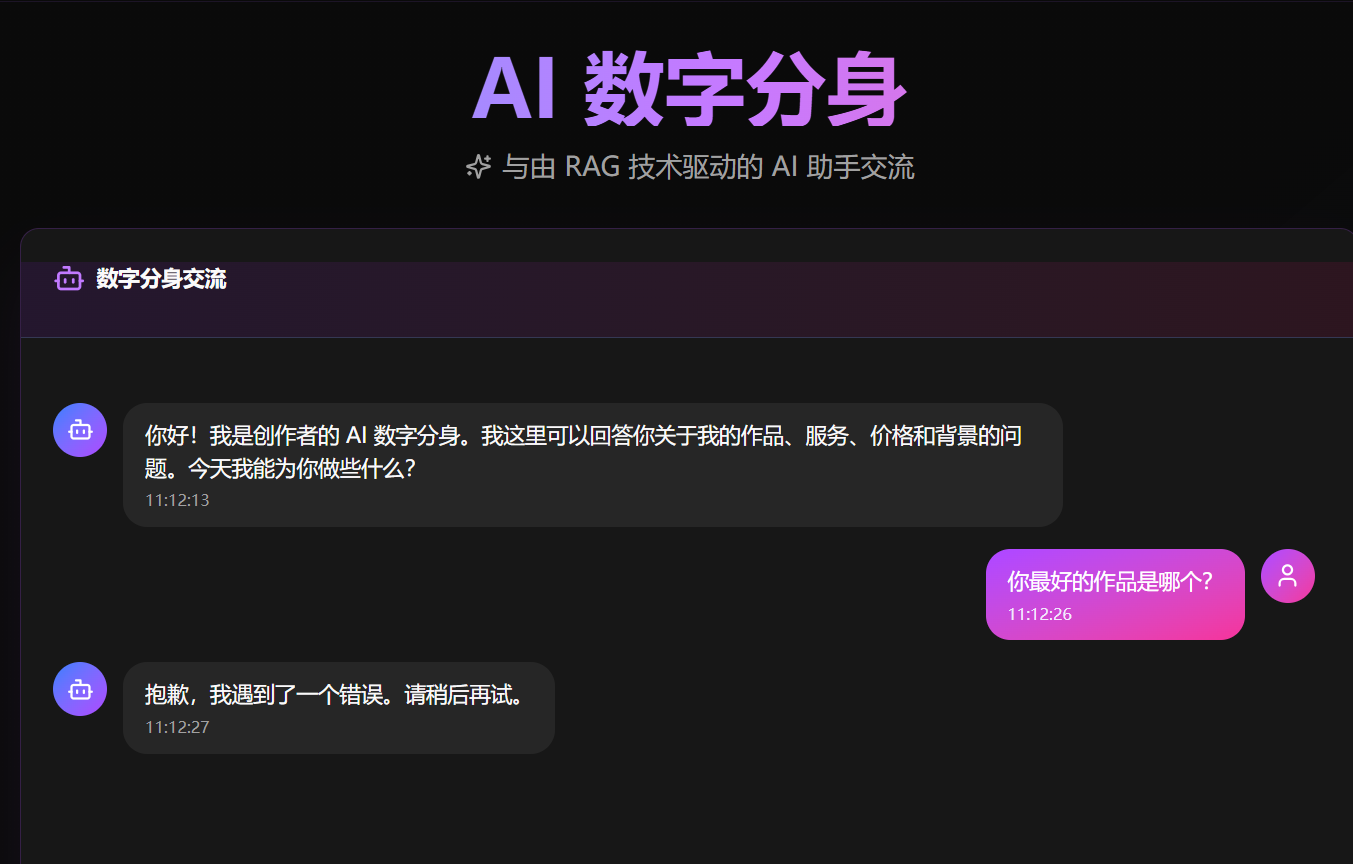
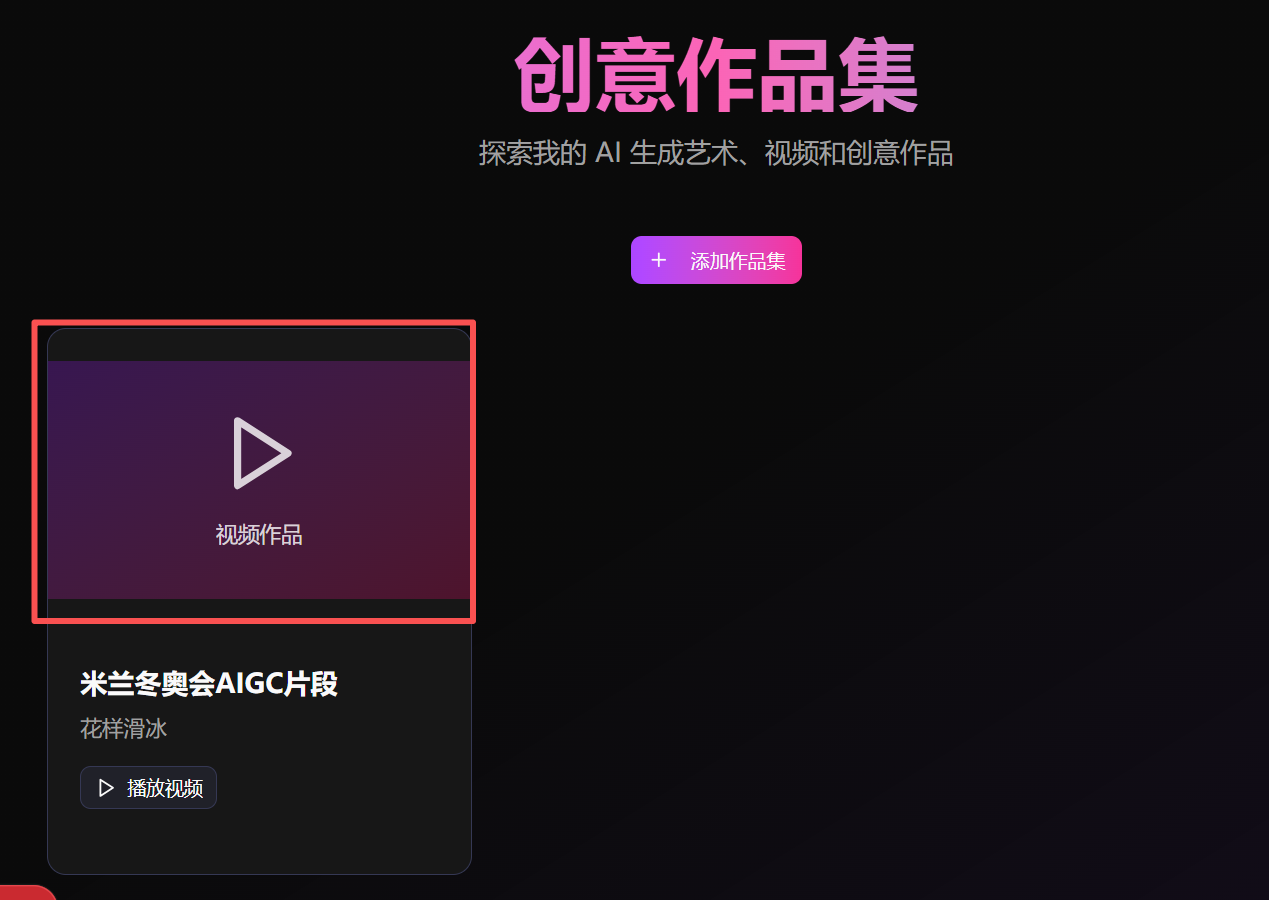
feat: 优化作品集预览功能，确保所有类型都有视觉展示

diff --git a/src/app/portfolio/page.tsx b/src/app/portfolio/page.tsx
@@ -17,7 +17,7 @@ import { Input } from '@/components/ui/input';
 import { Textarea } from '@/components/ui/textarea';
 import { Label } from '@/components/ui/label';
 import { Navigation } from '@/components/navigation';
-import { Plus, Edit2, Trash2, Upload, X, Play, ExternalLink } from 'lucide-react';
+import { Plus, Edit2, Trash2, Upload, X, Play, ExternalLink, Link2 } from 'lucide-react';
 
 interface Portfolio {
   id: string;
@@ -220,23 +220,55 @@ export default function PortfolioPage() {
                 transition={{ duration: 0.3 }}
               >
                 <Card className="overflow-hidden hover:shadow-2xl hover:shadow-purple-500/20 transition-all duration-300 group">
-                  {/* 媒体内容 */}
-                  <div className="relative aspect-video bg-gradient-to-br from-purple-900/50 to-pink-900/50 flex items-center justify-center">
+                  {/* 媒体内容预览 */}
+                  <div className="relative aspect-video bg-gradient-to-br from-purple-900/50 to-pink-900/50 flex items-center justify-center overflow-hidden">
+                    {/* 优先级1: 图片预览 */}
                     {portfolio.imageUrl && (
                       <img
                         src={portfolio.imageUrl}
                         alt={portfolio.title}
-                        className="w-full h-full object-cover"
+                        className="w-full h-full object-cover group-hover:scale-105 transition-transform duration-500"
                       />
                     )}
-                    {portfolio.videoUrl && !portfolio.imageUrl && (
-                      <div className="flex flex-col items-center justify-center gap-4">
-                        <Play className="w-16 h-16 text-white/80" />
-                        <span className="text-white/80">视频作品</span>
+
+                    {/* 优先级2: 视频预览 */}
+                    {!portfolio.imageUrl && portfolio.videoUrl && (
+                      <video
+                        src={portfolio.videoUrl}
+                        className="w-full h-full object-cover"
+                        muted
+                        preload="metadata"
+                      />
+                    )}
+
+                    {/* 优先级3: 网站预览 */}
+                    {!portfolio.imageUrl && !portfolio.videoUrl && portfolio.websiteUrl && (
+                      <div className="w-full h-full p-6 flex flex-col items-center justify-center bg-gradient-to-br from-blue-900/40 to-purple-900/40">
+                        <Link2 className="w-16 h-16 text-white/80 mb-3" />
+                        <p className="text-white/90 text-sm font-medium text-center line-clamp-2">
+                          {portfolio.title}
+                        </p>
+                        <p className="text-white/60 text-xs mt-2 truncate max-w-full">
+                          {portfolio.websiteUrl.replace(/^https?:\/\//, '')}
+                        </p>
                       </div>
                     )}
-                    {!portfolio.imageUrl && !portfolio.videoUrl && (
-                      <div className="text-8xl">🎨</div>
+
+                    {/* 优先级4: 默认图案 */}
+                    {!portfolio.imageUrl && !portfolio.videoUrl && !portfolio.websiteUrl && (
+                      <div className="flex flex-col items-center justify-center gap-4">
+                        <div className="text-8xl animate-pulse">🎨</div>
+                        <span className="text-white/80 text-lg">创意作品</span>
+                      </div>
+                    )}
+
+                    {/* 视频播放按钮遮罩 */}
+                    {!portfolio.imageUrl && portfolio.videoUrl && (
+                      <div className="absolute inset-0 flex items-center justify-center bg-black/30 group-hover:bg-black/20 transition-colors">
+                        <div className="w-16 h-16 rounded-full bg-white/20 backdrop-blur-sm flex items-center justify-center group-hover:scale-110 transition-transform">
+                          <Play className="w-8 h-8 text-white ml-1" />
+                        </div>
+                      </div>
                     )}
 
                     {/* 操作按钮 */}
